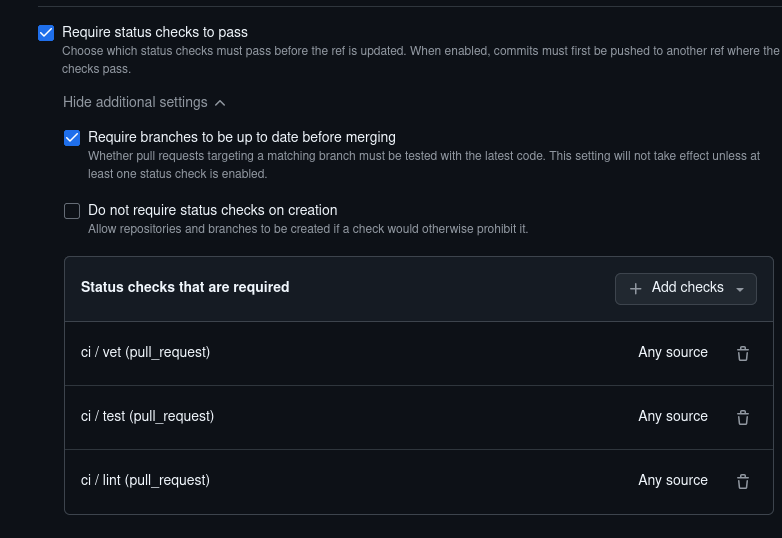
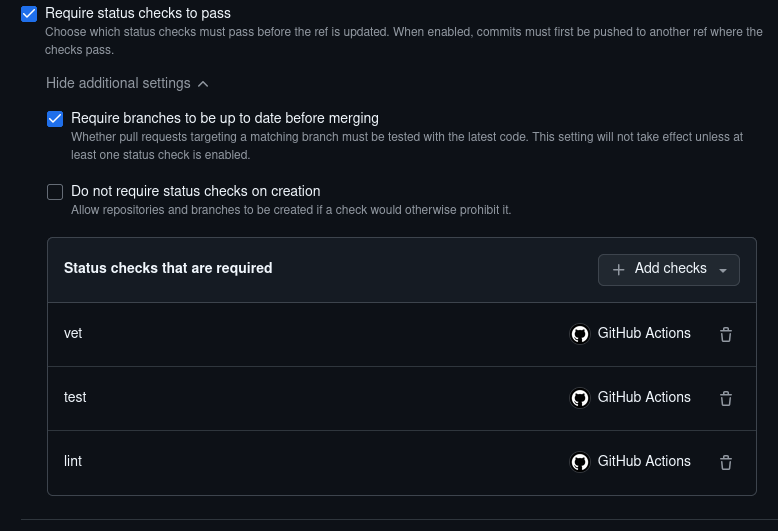
wip(lab3): task 2 finished

diff --git a/submissions/lab3.md b/submissions/lab3.md
@@ -103,10 +103,79 @@ I configured a branch protection rule for `main` with the following settings:
 * Require status checks to pass before merging
 * Require branches to be up to date before merging
 * Required checks:
-  * ci / vet
-  * ci / test
-  * ci / lint
+  * vet
+  * test
+  * lint
 
 ![Rules](screenshots/rules.png)
+
+## Task 2 — Make It Fast and Smart
+
+### 2.1 - 2.2 - 2.3 Applied optimizations
+
+I applied three CI optimizations.
+
+First, I enabled caching through `actions/setup-go` by setting `cache: true`.
+This allows GitHub Actions to reuse downloaded Go modules 
+and Go build cache data between workflow runs.
+
+Second, I added a build matrix for `vet` and `test`,
+running these jobs against Go `1.23` and Go `1.24` in parallel.
+This helps detect toolchain-specific issues and reduces
+the risk of "works on my machine" problems.
+After introducing the build matrix,
+I updated the required checks in the branch protection rule to match the new check names.
+![Updrules](screenshots/rulesupdate.png)
+
+The branch protection rule was updated to require the matrix-generated checks instead of the original `vet` and `test` checks.
+
+Third, I added path filters so that the workflow only runs when files 
+inside `app/**` or `.github/workflows/**` change. 
+Documentation-only changes no longer trigger unnecessary CI runs.
+
+### 2.4 Timing measurements
+
+| Scenario                                               | Wall-clock |
+| ------------------------------------------------------ | ---------- |
+| Baseline (no cache, single Go version, no path filter) | 35 s       |
+| With cache                                             | 38 s       |
+| With cache + matrix                                    | 34 s       |
+
+baseline screenshot:
+![Baseline](screenshots/baseline.png)
+
+with cache screenshot:
+![With cache](screenshots/cache.png)
+
+with cache+matrix screenshot:
+![With cache and matrix](screenshots/cache+matrix.png)
+
+
+The cache optimization did not significantly improve the total wall-clock time because QuickNotes has almost no external dependencies.
+Most of the pipeline time is spent on runner provisioning, repository checkout and Go toolchain setup rather than downloading Go modules.
+Small differences between runs are expected because GitHub-hosted runners have variable startup times and matrix jobs execute in parallel.
+
+## 2.5 - Design questions
+
+### f) Why cache `go.sum`-keyed inputs and not build outputs?
+
+`go.sum`-keyed inputs are deterministic because they describe the exact dependency versions used by the project.
+If `go.sum` does not change, the same dependencies can be safely restored from cache.
+Build outputs are less reliable because they may depend on the operating system, architecture, Go version,
+compiler flags and environment variables. 
+Caching deterministic inputs is safer and more reproducible than caching generated outputs.
+
+### g) What does `fail-fast: false` change in a matrix run, and when do you actually want `fail-fast: true`?
+
+With `fail-fast: false`, GitHub Actions continues running all matrix jobs even if one of them fails.
+This is useful for compatibility testing because it shows exactly which Go versions are affected by a problem.
+`fail-fast: true` is useful when CI resources are limited and continuing after the first failure would only waste time.
+
+### h) What's the risk of an attacker writing a cache from a malicious PR that protected branches later read?
+
+The main risk is cache poisoning. An attacker could try to inject malicious data into a cache that is later restored by trusted branches or workflows.
+This could influence future CI runs by introducing modified dependencies or build artifacts. 
+GitHub mitigates this by restricting cache access between branches, 
+but workflows should still use narrow cache keys and cache deterministic dependency inputs instead of executable outputs.
 
 